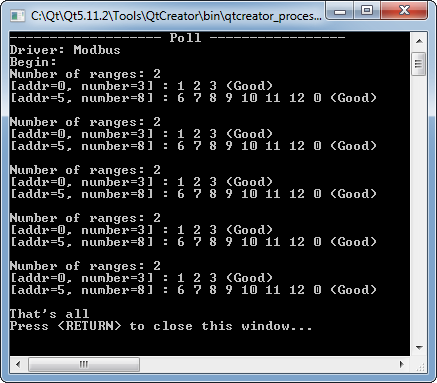
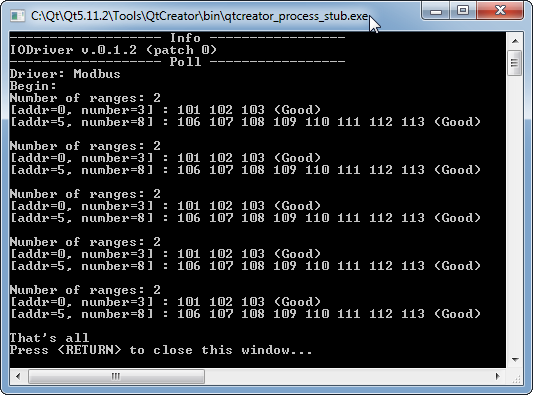
Changes in README

Changed region(s): [[0.0, 0.0, 1.0, 1.0], [0.6545, 0.2298, 0.7437, 0.2585]]

diff --git a/README.html b/README.html
@@ -6,35 +6,11 @@
   <meta name="generator" content="Haroopad 0.13.1" />
   <meta name="viewport" content="width=device-width, initial-scale=1.0">
 
[2 lines of base64/hex data omitted]
 </head>
 <body class="markdown haroopad">
-<h1 id="iodriverlib"><a name="iodriverlib" href="#iodriverlib"></a>IODriverLib</h1><p>IODriverLib is a Simple C++ Lib for ModBus/Tcp (Client).<br>As additional options, it is planned to add functions for working with other communication protocols.<br>This library depends from <a href="https://libmodbus.org/"><strong>libmodbus</strong></a></p><h3 id="main-features"><a name="main-features" href="#main-features"></a>Main features</h3><h3 id="prerequisites"><a name="prerequisites" href="#prerequisites"></a>Prerequisites</h3><ul>
-<li><a href="https://libmodbus.org/"><strong>libmodbus</strong></a><br>For installing libmodbus in Debian/Ubuntu type in terminal<pre class="cmake hljs"><code class="cmake" data-origin="<pre><code class=&quot;cmake&quot;>$ sudo apt-get update
-$ sudo apt-get install libmodbus-dev
-</code></pre>">$ sudo apt-get update
-$ sudo apt-get <span class="hljs-keyword">install</span> libmodbus-dev
-</code></pre>
-</li><li><a href="https://github.com/google/googletest.git"><strong>googletest</strong></a> (optionally for testing)</li></ul><p>The second way, compiled libraries are placed in the import folder <strong>import</strong> in the correspond subdirectory.</p><ul>
-<li>import/googletest/bin,includes,src</li><li>import/libmodbus/bin,includes,src</li></ul><ul>
-<li><strong>bin</strong> - executable and libraries files (exe, lib, so etc.)</li><li><strong>includes</strong> - headers</li><li><strong>src</strong> - sources (if exist)</li></ul><h3 id="compile"><a name="compile" href="#compile"></a>Compile</h3><h3 id="for-compilation-in-windows-(will-be-shown-example-with-mingw)"><a name="for-compilation-in-windows-(will-be-shown-example-with-mingw)" href="#for-compilation-in-windows-(will-be-shown-example-with-mingw)"></a>For compilation in windows (will be shown example with MinGW)</h3><ol>
-<li>Create and go to the <strong>build</strong> directory<pre class="cmake hljs"><code class="cmake" data-origin="<pre><code class=&quot;cmake&quot;>$ mkdir build &amp;amp;&amp;amp; cd build
-</code></pre>">$ mkdir build &amp;&amp; cd build
-</code></pre>
-</li><li>For building library execute the build command:<pre class="cmake hljs"><code class="cmake" data-origin="<pre><code class=&quot;cmake&quot;>$ cmake .. -G &quot;Unix Makefiles&quot; -DCMAKE_CXX_COMPILER=&quot;C:/Qt/Qt5.11.2/Tools/mingw530_32/bin/g++.exe&quot; -DCMAKE_MAKE_PROGRAM=&quot;C:/Qt/Qt5.11.2/Tools/mingw530_32/bin/mingw32-make.exe&quot; &amp;amp;&amp;amp; mingw32-make.exe &amp;amp;&amp;amp;  mingw32-make.exe install
-</code></pre>">$ cmake .. -G <span class="hljs-string">"Unix Makefiles"</span> -DCMAKE_CXX_COMPILER=<span class="hljs-string">"C:/Qt/Qt5.11.2/Tools/mingw530_32/bin/g++.exe"</span> -DCMAKE_MAKE_PROGRAM=<span class="hljs-string">"C:/Qt/Qt5.11.2/Tools/mingw530_32/bin/mingw32-make.exe"</span> &amp;&amp; mingw32-make.exe &amp;&amp;  mingw32-make.exe <span class="hljs-keyword">install</span>
-</code></pre>
-</li><li>Build unit tests (if need). (Option <strong>-TEST=ON</strong> enables building tests)<pre class="cmake hljs"><code class="cmake" data-origin="<pre><code class=&quot;cmake&quot;>$ cmake .. -G &quot;Unix Makefiles&quot; -DCMAKE_CXX_COMPILER=&quot;C:/Qt/Qt5.11.2/Tools/mingw530_32/bin/g++.exe&quot; -DCMAKE_MAKE_PROGRAM=&quot;C:/Qt/Qt5.11.2/Tools/mingw530_32/bin/mingw32-make.exe&quot; -DTEST=ON &amp;amp;&amp;amp;  mingw32-make.exe &amp;amp;&amp;amp;  mingw32-make.exe install
-</code></pre>">$ cmake .. -G <span class="hljs-string">"Unix Makefiles"</span> -DCMAKE_CXX_COMPILER=<span class="hljs-string">"C:/Qt/Qt5.11.2/Tools/mingw530_32/bin/g++.exe"</span> -DCMAKE_MAKE_PROGRAM=<span class="hljs-string">"C:/Qt/Qt5.11.2/Tools/mingw530_32/bin/mingw32-make.exe"</span> -DTEST=<span class="hljs-keyword">ON</span> &amp;&amp;  mingw32-make.exe &amp;&amp;  mingw32-make.exe <span class="hljs-keyword">install</span>
-</code></pre>
-<h3 id="for-compilation-in-linux"><a name="for-compilation-in-linux" href="#for-compilation-in-linux"></a>For compilation in Linux</h3>
-</li><li>Create and go to the <strong>build</strong> directory<pre class="cmake hljs"><code class="cmake" data-origin="<pre><code class=&quot;cmake&quot;>$ mkdir build &amp;amp;&amp;amp; cd build
-</code></pre>">$ mkdir build &amp;&amp; cd build
-</code></pre>
-</li><li>For building library execute the build command:<pre class="cmake hljs"><code class="cmake" data-origin="<pre><code class=&quot;cmake&quot;>$ cmake .. -DTEST=OFF &amp;amp;&amp;amp; make &amp;amp;&amp;amp; make install &amp;amp;&amp;amp; cmake .. -DTEST=ON &amp;amp;&amp;amp; make &amp;amp;&amp;amp; make install
-</code></pre>">$ cmake .. -DTEST=<span class="hljs-keyword">OFF</span> &amp;&amp; make &amp;&amp; make <span class="hljs-keyword">install</span> &amp;&amp; cmake .. -DTEST=<span class="hljs-keyword">ON</span> &amp;&amp; make &amp;&amp; make <span class="hljs-keyword">install</span>
-</code></pre>
-</li></ol><p>Result: binaries and headers will be find in <strong>export</strong> folder</p><h3 id="example-of-using:"><a name="example-of-using:" href="#example-of-using:"></a>Example of using:</h3><pre><code class="c++" data-origin="<pre><code class=&quot;c++&quot;>#include &quot;iodriverlib.h&quot;
+<h1 id="iodriverlib"><a name="iodriverlib" href="#iodriverlib"></a>IODriverLib</h1><p>IODriverLib is a Simple C++ Lib for ModBus/Tcp (Client).</p><p>As additional options, it is planned to add functions for working with other communication protocols.<br>This library depends from <a href="https://libmodbus.org/"><strong>libmodbus</strong></a></p><h3 id="main-features"><a name="main-features" href="#main-features"></a>Main features</h3><ul>
+<li>The driver makes periodic attempts to connect a modbus server;</li><li>Asynchronous cyclic reading of group (s) holding registers (after connection);</li><li>Asychronous writing of holding register (after connection);</li><li>Registers have a timestamp;</li><li>Registers have a quality.</li></ul><h3 id="example-of-using:"><a name="example-of-using:" href="#example-of-using:"></a>Example of using:</h3><pre><code class="c++" data-origin="<pre><code class=&quot;c++&quot;>#include &quot;iodriverlib.h&quot;
 
 #include &amp;lt;iostream&amp;gt;
 #include &amp;lt;string&amp;gt;
@@ -48,7 +24,7 @@ using std::endl;
 
 int main(int argc, char *argv[])
 {
-    auto lib = std::make_unique&amp;lt;SharedLib&amp;gt;();
+    auto lib = std::make_unique&amp;lt;IODriverLib&amp;gt;();
     // IODriver info
     cout &amp;lt;&amp;lt; &quot;------------------- Info -----------------&quot; &amp;lt;&amp;lt; endl;
     cout &amp;lt;&amp;lt; lib-&amp;gt;info();
@@ -98,7 +74,7 @@ using std::endl;
 
 int main(int argc, char *argv[])
 {
-    auto lib = std::make_unique&lt;SharedLib&gt;();
+    auto lib = std::make_unique&lt;IODriverLib&gt;();
     // IODriver info
     cout &lt;&lt; "------------------- Info -----------------" &lt;&lt; endl;
     cout &lt;&lt; lib-&gt;info();
@@ -134,7 +110,120 @@ int main(int argc, char *argv[])
 
     return  0;
 }
-</code></pre><p>Console output:<br>Modbus simulator had following registers values (from 0 address): 1..12</p><p><img src="doc/img/win_example.png" alt="Console out"></p><h3 id="testing"><a name="testing" href="#testing"></a>Testing</h3><ol>
+</code></pre><p>The Modbus/TCP server has the following address map:</p><table>
+<thead>
+<tr>
+<th>address</th>
+<th>value</th>
+<th></th>
+<th>address</th>
+<th>value</th>
+</tr>
+</thead>
+<tbody>
+<tr>
+<td>0</td>
+<td>101</td>
+<td></td>
+<td>10</td>
+<td>111</td>
+</tr>
+<tr>
+<td>1</td>
+<td>102</td>
+<td></td>
+<td>11</td>
+<td>112</td>
+</tr>
+<tr>
+<td>2</td>
+<td>103</td>
+<td></td>
+<td>12</td>
+<td>113</td>
+</tr>
+<tr>
+<td>3</td>
+<td>104</td>
+<td></td>
+<td>13</td>
+<td>114</td>
+</tr>
+<tr>
+<td>4</td>
+<td>105</td>
+<td></td>
+<td>14</td>
+<td>115</td>
+</tr>
+<tr>
+<td>5</td>
+<td>106</td>
+<td></td>
+<td>15</td>
+<td>116</td>
+</tr>
+<tr>
+<td>6</td>
+<td>107</td>
+<td></td>
+<td>16</td>
+<td>117</td>
+</tr>
+<tr>
+<td>7</td>
+<td>108</td>
+<td></td>
+<td>17</td>
+<td>118</td>
+</tr>
+<tr>
+<td>8</td>
+<td>109</td>
+<td></td>
+<td>18</td>
+<td>119</td>
+</tr>
+<tr>
+<td>9</td>
+<td>110</td>
+<td></td>
+<td>19</td>
+<td>120</td>
+</tr>
+</tbody>
+</table><p>Console output:</p><p><img src="doc/img/win_example.png" alt="Console out"></p><h3 id="building"><a name="building" href="#building"></a>Building</h3><h4 id="prerequisites"><a name="prerequisites" href="#prerequisites"></a>Prerequisites</h4><ul>
+<li><a href="https://libmodbus.org/"><strong>libmodbus</strong></a><br>For installing libmodbus in Debian/Ubuntu type in terminal<pre class="cmake hljs"><code class="cmake" data-origin="<pre><code class=&quot;cmake&quot;>$ sudo apt-get update
+$ sudo apt-get install libmodbus-dev
+</code></pre>">$ sudo apt-get update
+$ sudo apt-get <span class="hljs-keyword">install</span> libmodbus-dev
+</code></pre>
+</li><li><a href="https://github.com/google/googletest.git"><strong>googletest</strong></a> (optionally for testing)</li></ul><p>The second way - to compile libraries and place its in the <strong>import</strong> folder in  the correspond subdirectory.</p><ul>
+<li>import/googletest/bin,includes,src<br><img src="doc/img/import_libmodbus.png" alt="libmodbus"></li><li>import/libmodbus/bin,includes,src<br><img src="doc/img/import_googletest.png" alt="libmodbus"></li></ul><ul>
+<li><strong>bin</strong> - executable and libraries files (exe, lib, so etc.)</li><li><strong>includes</strong> - headers</li><li><strong>src</strong> - sources (if exist)</li></ul><h4 id="compilation-in-windows-(mingw)"><a name="compilation-in-windows-(mingw)" href="#compilation-in-windows-(mingw)"></a>Compilation in windows (MinGW)</h4><ol>
+<li>Create and go to the <strong>build</strong> directory<pre class="cmake hljs"><code class="cmake" data-origin="<pre><code class=&quot;cmake&quot;>$ mkdir build &amp;amp;&amp;amp; cd build
+</code></pre>">$ mkdir build &amp;&amp; cd build
+</code></pre>
+</li><li>For building library execute the command:<pre class="cmake hljs"><code class="cmake" data-origin="<pre><code class=&quot;cmake&quot;>$ cmake .. -G &quot;Unix Makefiles&quot; mingw32-make.exe &amp;amp;&amp;amp;  mingw32-make.exe install
+</code></pre>">$ cmake .. -G <span class="hljs-string">"Unix Makefiles"</span> mingw32-make.exe &amp;&amp;  mingw32-make.exe <span class="hljs-keyword">install</span>
+</code></pre>
+</li><li>Build unit tests (if need). (Option <strong>-DTEST=ON</strong> enables building tests)<pre class="cmake hljs"><code class="cmake" data-origin="<pre><code class=&quot;cmake&quot;>$ cmake .. -G &quot;Unix Makefiles&quot; -DTEST=ON &amp;amp;&amp;amp;  mingw32-make.exe &amp;amp;&amp;amp;  mingw32-make.exe install
+</code></pre>">$ cmake .. -G <span class="hljs-string">"Unix Makefiles"</span> -DTEST=<span class="hljs-keyword">ON</span> &amp;&amp;  mingw32-make.exe &amp;&amp;  mingw32-make.exe <span class="hljs-keyword">install</span>
+</code></pre>
+</li><li>If you want to use another compiler you should specify it directly (For example MinGW from Qt)<pre class="cmake hljs"><code class="cmake" data-origin="<pre><code class=&quot;cmake&quot;>$ cmake .. -G &quot;Unix Makefiles&quot; -DCMAKE_CXX_COMPILER=&quot;C:/Qt/Qt5.11.2/Tools/mingw530_32/bin/g++.exe&quot; -DCMAKE_MAKE_PROGRAM=&quot;C:/Qt/Qt5.11.2/Tools/mingw530_32/bin/mingw32-make.exe&quot; &amp;amp;&amp;amp; mingw32-make.exe &amp;amp;&amp;amp;  mingw32-make.exe install
+</code></pre>">$ cmake .. -G <span class="hljs-string">"Unix Makefiles"</span> -DCMAKE_CXX_COMPILER=<span class="hljs-string">"C:/Qt/Qt5.11.2/Tools/mingw530_32/bin/g++.exe"</span> -DCMAKE_MAKE_PROGRAM=<span class="hljs-string">"C:/Qt/Qt5.11.2/Tools/mingw530_32/bin/mingw32-make.exe"</span> &amp;&amp; mingw32-make.exe &amp;&amp;  mingw32-make.exe <span class="hljs-keyword">install</span>
+</code></pre>
+</li><li>Building unit tests)<pre class="cmake hljs"><code class="cmake" data-origin="<pre><code class=&quot;cmake&quot;>$ cmake .. -G &quot;Unix Makefiles&quot; -DCMAKE_CXX_COMPILER=&quot;C:/Qt/Qt5.11.2/Tools/mingw530_32/bin/g++.exe&quot; -DCMAKE_MAKE_PROGRAM=&quot;C:/Qt/Qt5.11.2/Tools/mingw530_32/bin/mingw32-make.exe&quot; -DTEST=ON &amp;amp;&amp;amp;  mingw32-make.exe &amp;amp;&amp;amp;  mingw32-make.exe install
+</code></pre>">$ cmake .. -G <span class="hljs-string">"Unix Makefiles"</span> -DCMAKE_CXX_COMPILER=<span class="hljs-string">"C:/Qt/Qt5.11.2/Tools/mingw530_32/bin/g++.exe"</span> -DCMAKE_MAKE_PROGRAM=<span class="hljs-string">"C:/Qt/Qt5.11.2/Tools/mingw530_32/bin/mingw32-make.exe"</span> -DTEST=<span class="hljs-keyword">ON</span> &amp;&amp;  mingw32-make.exe &amp;&amp;  mingw32-make.exe <span class="hljs-keyword">install</span>
+</code></pre>
+</li></ol><h4 id="compilation-in-linux-(gcc)"><a name="compilation-in-linux-(gcc)" href="#compilation-in-linux-(gcc)"></a>Compilation in Linux (GCC)</h4><ol>
+<li>Create and go to the <strong>build</strong> directory<pre class="cmake hljs"><code class="cmake" data-origin="<pre><code class=&quot;cmake&quot;>$ mkdir build &amp;amp;&amp;amp; cd build
+</code></pre>">$ mkdir build &amp;&amp; cd build
+</code></pre>
+</li><li>For building library execute the build command:<pre class="cmake hljs"><code class="cmake" data-origin="<pre><code class=&quot;cmake&quot;>$ cmake .. -DTEST=OFF &amp;amp;&amp;amp; make &amp;amp;&amp;amp; make install &amp;amp;&amp;amp; cmake .. -DTEST=ON &amp;amp;&amp;amp; make &amp;amp;&amp;amp; make install
+</code></pre>">$ cmake .. -DTEST=<span class="hljs-keyword">OFF</span> &amp;&amp; make &amp;&amp; make <span class="hljs-keyword">install</span> &amp;&amp; cmake .. -DTEST=<span class="hljs-keyword">ON</span> &amp;&amp; make &amp;&amp; make <span class="hljs-keyword">install</span>
+</code></pre>
+</li></ol><p>Result: binaries and headers will be foudn in <strong>export</strong> folder</p><h3 id="testing"><a name="testing" href="#testing"></a>Testing</h3><ol>
 <li>Windows (MinGW)<pre><code data-origin="<pre><code>$ mingw32-make.exe test
 </code></pre>">$ mingw32-make.exe test
 </code></pre></li><li>Linux (GCC)<pre><code data-origin="<pre><code>$ make test

diff --git a/README.md b/README.md
@@ -1,56 +1,16 @@
 # IODriverLib
 
 IODriverLib is a Simple C++ Lib for ModBus/Tcp (Client).
+
 As additional options, it is planned to add functions for working with other communication protocols.
 This library depends from [**libmodbus**](https://libmodbus.org/)
 
 ### Main features
-
-### Prerequisites
-- [**libmodbus**](https://libmodbus.org/)
-For installing libmodbus in Debian/Ubuntu type in terminal
-~~~cmake
-$ sudo apt-get update
-$ sudo apt-get install libmodbus-dev
-~~~
-- [**googletest**](https://github.com/google/googletest.git) (optionally for testing)
-
-The second way, compiled libraries are placed in the import folder **import** in the correspond subdirectory.
-- import/googletest/bin,includes,src
-- import/libmodbus/bin,includes,src
-
- 
-- **bin** - executable and libraries files (exe, lib, so etc.)
-- **includes** - headers
-- **src** - sources (if exist)
-
-### Compile
-### For compilation in windows (will be shown example with MinGW)
-1. Create and go to the **build** directory
-~~~cmake
-$ mkdir build && cd build
-~~~
-2. For building library execute the build command:
-~~~cmake
-$ cmake .. -G "Unix Makefiles" -DCMAKE_CXX_COMPILER="C:/Qt/Qt5.11.2/Tools/mingw530_32/bin/g++.exe" -DCMAKE_MAKE_PROGRAM="C:/Qt/Qt5.11.2/Tools/mingw530_32/bin/mingw32-make.exe" && mingw32-make.exe &&  mingw32-make.exe install
-~~~
-3. Build unit tests (if need). (Option **-TEST=ON** enables building tests)
-~~~cmake
-$ cmake .. -G "Unix Makefiles" -DCMAKE_CXX_COMPILER="C:/Qt/Qt5.11.2/Tools/mingw530_32/bin/g++.exe" -DCMAKE_MAKE_PROGRAM="C:/Qt/Qt5.11.2/Tools/mingw530_32/bin/mingw32-make.exe" -DTEST=ON &&  mingw32-make.exe &&  mingw32-make.exe install
-~~~
-### For compilation in Linux
-1. Create and go to the **build** directory
-~~~cmake
-$ mkdir build && cd build
-~~~
-2. For building library execute the build command:
-~~~cmake
-$ cmake .. -DTEST=OFF && make && make install && cmake .. -DTEST=ON && make && make install
-~~~
-
-Result: binaries and headers will be find in **export** folder
-
-
+- The driver makes periodic attempts to connect a modbus server;
+- Asynchronous cyclic reading of group (s) holding registers (after connection);
+- Asychronous writing of holding register (after connection);
+- Registers have a timestamp;
+- Registers have a quality.
 
 ### Example of using:
 
@@ -69,7 +29,7 @@ using std::endl;
 
 int main(int argc, char *argv[])
 {
-    auto lib = std::make_unique<SharedLib>();
+    auto lib = std::make_unique<IODriverLib>();
     // IODriver info
     cout << "------------------- Info -----------------" << endl;
     cout << lib->info();
@@ -105,11 +65,82 @@ int main(int argc, char *argv[])
 
     return  0;
 }
-```  
+```
+
+The Modbus/TCP server has the following address map:
+
+| address |  value  || address |  value  |
+|---------|---------||---------|---------|
+|   0     |   101   ||   10    |   111   |
+|   1     |   102   ||   11    |   112   |
+|   2     |   103   ||   12    |   113   |
+|   3     |   104   ||   13    |   114   |
+|   4     |   105   ||   14    |   115   |
+|   5     |   106   ||   15    |   116   |
+|   6     |   107   ||   16    |   117   |
+|   7     |   108   ||   17    |   118   |
+|   8     |   109   ||   18    |   119   |
+|   9     |   110   ||   19    |   120   |
+
 Console output:
-Modbus simulator had following registers values (from 0 address): 1..12
 
 ![Console out](doc/img/win_example.png)
+
+### Building
+
+#### Prerequisites
+- [**libmodbus**](https://libmodbus.org/)
+For installing libmodbus in Debian/Ubuntu type in terminal
+~~~cmake
+$ sudo apt-get update
+$ sudo apt-get install libmodbus-dev
+~~~
+- [**googletest**](https://github.com/google/googletest.git) (optionally for testing)
+
+The second way - to compile libraries and place its in the **import** folder in  the correspond subdirectory.
+- import/googletest/bin,includes,src
+![libmodbus](doc/img/import_libmodbus.png)
+- import/libmodbus/bin,includes,src
+![libmodbus](doc/img/import_googletest.png)
++ **bin** - executable and libraries files (exe, lib, so etc.)
++ **includes** - headers
++ **src** - sources (if exist)
+
+
+#### Compilation in windows (MinGW)
+1. Create and go to the **build** directory
+~~~cmake
+$ mkdir build && cd build
+~~~
+2. For building library execute the command:
+~~~cmake
+$ cmake .. -G "Unix Makefiles" mingw32-make.exe &&  mingw32-make.exe install
+~~~
+3. Build unit tests (if need). (Option **-DTEST=ON** enables building tests)
+~~~cmake
+$ cmake .. -G "Unix Makefiles" -DTEST=ON &&  mingw32-make.exe &&  mingw32-make.exe install
+~~~
+4. If you want to use another compiler you should specify it directly (For example MinGW from Qt)
+~~~cmake
+$ cmake .. -G "Unix Makefiles" -DCMAKE_CXX_COMPILER="C:/Qt/Qt5.11.2/Tools/mingw530_32/bin/g++.exe" -DCMAKE_MAKE_PROGRAM="C:/Qt/Qt5.11.2/Tools/mingw530_32/bin/mingw32-make.exe" && mingw32-make.exe &&  mingw32-make.exe install
+~~~
+5. Building unit tests)
+~~~cmake
+$ cmake .. -G "Unix Makefiles" -DCMAKE_CXX_COMPILER="C:/Qt/Qt5.11.2/Tools/mingw530_32/bin/g++.exe" -DCMAKE_MAKE_PROGRAM="C:/Qt/Qt5.11.2/Tools/mingw530_32/bin/mingw32-make.exe" -DTEST=ON &&  mingw32-make.exe &&  mingw32-make.exe install
+~~~
+
+#### Compilation in Linux (GCC)
+1. Create and go to the **build** directory
+~~~cmake
+$ mkdir build && cd build
+~~~
+2. For building library execute the build command:
+~~~cmake
+$ cmake .. -DTEST=OFF && make && make install && cmake .. -DTEST=ON && make && make install
+~~~
+
+Result: binaries and headers will be foudn in **export** folder
+
 
 ### Testing 
 1. Windows (MinGW)
